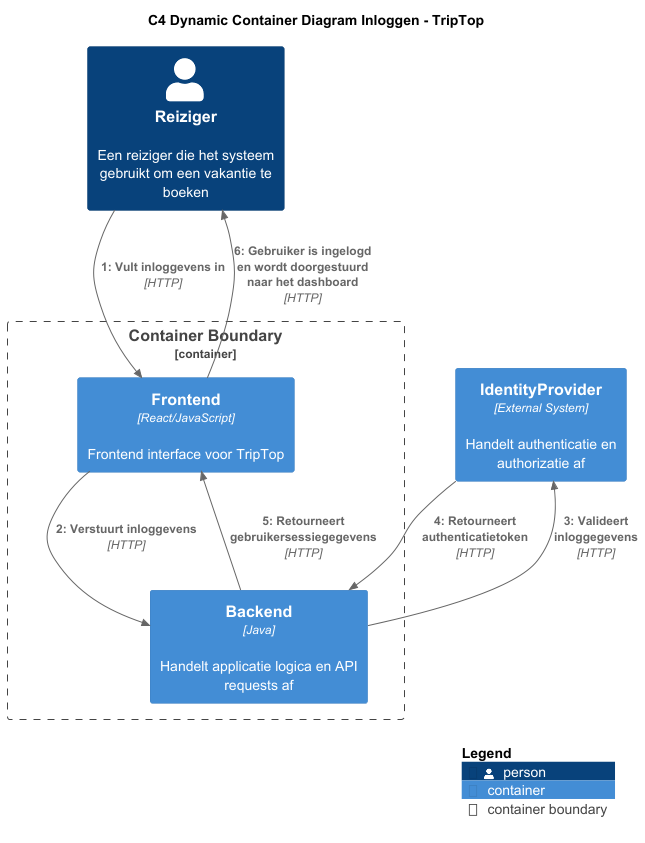
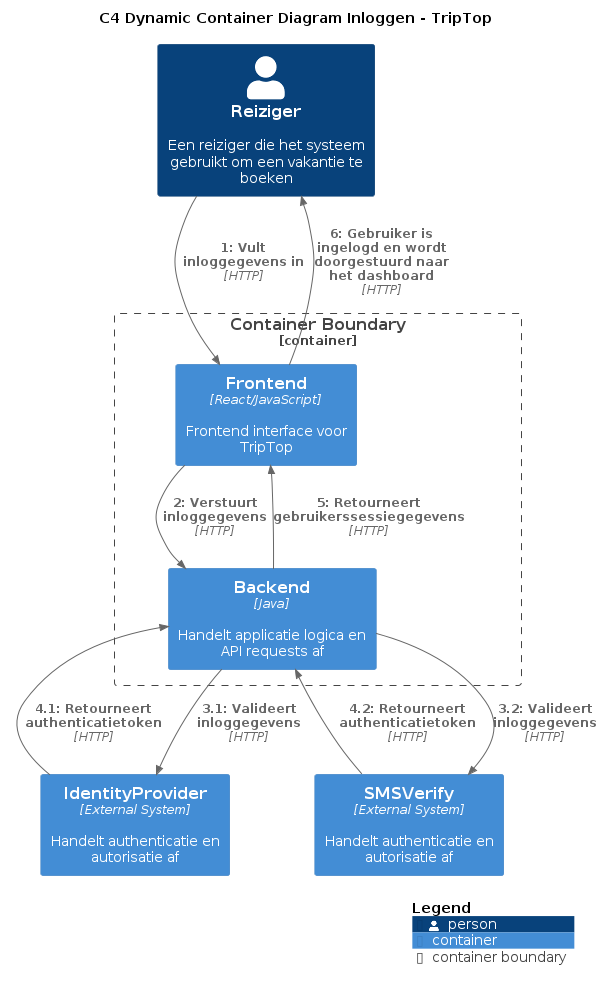
Add SMS verify to C4 diagrams

diff --git a/software-guidebook/README.md b/software-guidebook/README.md
@@ -59,6 +59,8 @@ van gebruikers. Dit externe systeem zorgt ervoor dat gebruikers zich veilig kunn
 applicatie en hun identiteit wordt gecontroleerd, zonder dat de applicatie zelf verantwoordelijk is
 voor het beheer van wachtwoorden of inloggegevens.
 
+5. SMS Verify
+
 ## 3. Functional Overview
 
 Om de belangrijkste features toe te lichten zijn er user stories en twee domain stories gemaakt en een overzicht van het domein in de vorm van een domeinmodel. Op deze plek staat typisch een user story map maar die ontbreekt in dit voorbeeld.
